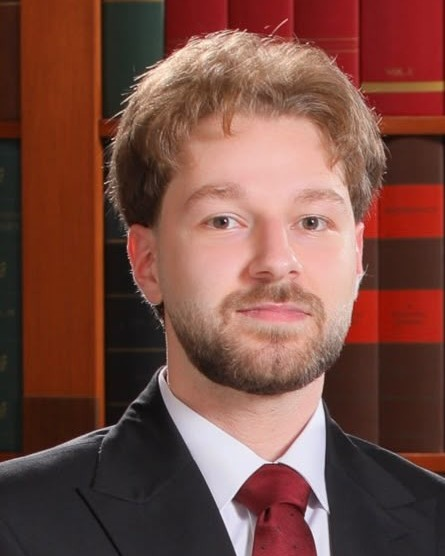
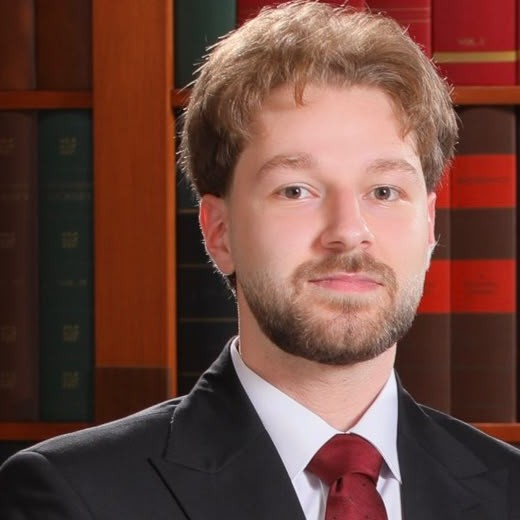
Simplify hero board, wider portrait, plain stop numbers, dot-grid
- Hero board lists the three projects only; driver screen moves into
  the bus system gallery in place of the analytics screenshot
- Wider portrait crop showing upper body
- Stop and line numbers read 1-5; plates lift instead of rotating
- Remove the GitHub section and its data helper
- Subtle dot-grid paper background in both themes

diff --git a/src/components/PortfolioPage.tsx b/src/components/PortfolioPage.tsx
@@ -4,7 +4,6 @@ import { PhishCheckerDemo } from "@/components/PhishCheckerDemo";
 import { EdgeAIDemo } from "@/components/EdgeAIDemo";
 import { ContactForm } from "@/components/ContactForm";
 import { CommandPalette } from "@/components/CommandPalette";
-import { getRepos } from "@/lib/github";
 import {
   board, contact, credentials, credentialText, CV, decisionLabel, education, EMAIL, experience, fmtDate,
   GITHUB, hero, pharmacy, phish, sdbs, sections, skills, skillsNote, usedIn, type L, type Locale,
@@ -30,8 +29,7 @@ function StationHead({ code, id, title, lede }: { code: string; id: string; titl
 const ext = { target: "_blank", rel: "noopener noreferrer" } as const;
 
 
-export async function PortfolioPage({ locale: raw, contactEnabled = false }: { locale: string; contactEnabled?: boolean }) {
-  const repos = await getRepos();
+export function PortfolioPage({ locale: raw, contactEnabled = false }: { locale: string; contactEnabled?: boolean }) {
   const locale: Locale = raw === "ar" ? "ar" : "en";
   const t = (v: L) => v[locale];
   const isAr = locale === "ar";
@@ -51,7 +49,7 @@ export async function PortfolioPage({ locale: raw, contactEnabled = false }: { l
           <section id="depot" className="station hero" aria-labelledby="hero-name">
             <div className="hero-copy">
               <div className="hero-id">
-                <Image className="hero-photo" src="/portrait.jpg" width={445} height={556} alt={isAr ? "صورة محمد الضاني" : "Portrait of Mohamed Aldani"} sizes="(max-width: 600px) 96px, 168px" loading="eager" fetchPriority="high" />
+                <Image className="hero-photo" src="/portrait.jpg" width={520} height={520} alt={isAr ? "صورة محمد الضاني" : "Portrait of Mohamed Aldani"} sizes="(max-width: 600px) 96px, 168px" loading="eager" fetchPriority="high" />
                 <h1 id="hero-name" className="hero-name">
                   {t(hero.name).split("\n").map(line => <span key={line}>{line}</span>)}
                 </h1>
@@ -70,10 +68,6 @@ export async function PortfolioPage({ locale: raw, contactEnabled = false }: { l
 
             <nav className="board" aria-labelledby="board-title">
               <div className="board-head"><span id="board-title">{t(hero.board)}</span><span>{board.length} {isAr ? "خطوط" : "lines"}</span></div>
-              <figure className="board-shot">
-                <Image src={sdbs.shots[0].src} width={sdbs.shots[0].w} height={sdbs.shots[0].h} alt={t(sdbs.shots[0].cap)} sizes="(max-width: 1000px) 92vw, 440px" loading="eager" />
-                <figcaption>{t(sdbs.shots[0].cap)}</figcaption>
-              </figure>
               <ol className="board-rows">
                 {board.map(row => (
                   <li key={row.id}>
@@ -90,11 +84,11 @@ export async function PortfolioPage({ locale: raw, contactEnabled = false }: { l
 
           {/* 01 Work */}
           <section id="projects" className="station" aria-labelledby="projects-heading">
-            <StationHead code="01" id="projects-heading" title={t(sections.work)} />
+            <StationHead code="1" id="projects-heading" title={t(sections.work)} />
 
             <article className="case" id="project-sdbs" aria-labelledby="sdbs-title">
               <div className="case-intro">
-                <h3 id="sdbs-title" className="project-title"><span className="line-no" dir="ltr">01</span>{t(sdbs.title)}</h3>
+                <h3 id="sdbs-title" className="project-title"><span className="line-no" dir="ltr">1</span>{t(sdbs.title)}</h3>
                 <p className="project-summary">{t(sdbs.summary)}</p>
                 <dl className="meta-list">
                   {sdbs.meta.map(m => <div key={m.k.en}><dt>{t(m.k)}</dt><dd>{t(m.v)}</dd></div>)}
@@ -103,7 +97,7 @@ export async function PortfolioPage({ locale: raw, contactEnabled = false }: { l
               </div>
 
               <div className="gallery" role="list" tabIndex={0} aria-label={isAr ? "لقطات من التطبيق" : "App screenshots"}>
-                {sdbs.shots.filter(s => !s.wide).map(s => (
+                {sdbs.shots.map(s => (
                   <figure key={s.src} role="listitem" className={s.wide ? "shot shot-wide" : "shot"}>
                     <Image src={s.src} width={s.w} height={s.h} alt={t(s.cap)} sizes={s.wide ? "(max-width: 768px) 88vw, 560px" : "(max-width: 768px) 46vw, 180px"} />
                     <figcaption>{t(s.cap)}</figcaption>
@@ -136,7 +130,7 @@ export async function PortfolioPage({ locale: raw, contactEnabled = false }: { l
 
             <article className="case case-split" id="project-phish" aria-labelledby="phish-title">
               <div className="case-intro">
-                <h3 id="phish-title" className="project-title"><span className="line-no" dir="ltr">02</span>{t(phish.title)}</h3>
+                <h3 id="phish-title" className="project-title"><span className="line-no" dir="ltr">2</span>{t(phish.title)}</h3>
                 <p className="project-summary">{t(phish.summary)}</p>
                 <p className="stack" dir="ltr">{phish.stack}</p>
                 <figure className="shot shot-terminal">
@@ -152,7 +146,7 @@ export async function PortfolioPage({ locale: raw, contactEnabled = false }: { l
             </article>
 
             <article className="case case-compact" id="project-pharmacy" aria-labelledby="pharmacy-title">
-              <h3 id="pharmacy-title" className="project-title"><span className="line-no" dir="ltr">03</span>{t(pharmacy.title)}</h3>
+              <h3 id="pharmacy-title" className="project-title"><span className="line-no" dir="ltr">3</span>{t(pharmacy.title)}</h3>
               <div>
                 <p className="project-summary">{t(pharmacy.summary)}</p>
                 <p className="stack" dir="ltr">{pharmacy.stack}</p>
@@ -166,7 +160,7 @@ export async function PortfolioPage({ locale: raw, contactEnabled = false }: { l
 
           {/* 02 Experience */}
           <section id="experience" className="station" aria-labelledby="experience-heading">
-            <StationHead code="02" id="experience-heading" title={t(sections.experience)} />
+            <StationHead code="2" id="experience-heading" title={t(sections.experience)} />
             <ol className="timetable">
               {experience.map(job => (
                 <li key={job.role.en}>
@@ -184,7 +178,7 @@ export async function PortfolioPage({ locale: raw, contactEnabled = false }: { l
 
           {/* 03 Skills */}
           <section id="skills" className="station" aria-labelledby="skills-heading">
-            <StationHead code="03" id="skills-heading" title={t(sections.skills)} />
+            <StationHead code="3" id="skills-heading" title={t(sections.skills)} />
             <dl className="skill-table">
               {skills.map(s => (
                 <div key={s.label.en}>
@@ -199,7 +193,7 @@ export async function PortfolioPage({ locale: raw, contactEnabled = false }: { l
 
           {/* 04 Education */}
           <section id="about" className="station" aria-labelledby="about-heading">
-            <StationHead code="04" id="about-heading" title={t(sections.education)} />
+            <StationHead code="4" id="about-heading" title={t(sections.education)} />
             <div className="edu">
               <div>
                 <h3 className="edu-degree">{t(education.degree)}</h3>
@@ -222,7 +216,7 @@ export async function PortfolioPage({ locale: raw, contactEnabled = false }: { l
 
           {/* 05 Certificates */}
           <section id="certificates" className="station" aria-labelledby="certificates-heading">
-            <StationHead code="05" id="certificates-heading" title={t(sections.certificates)} lede={t(credentialText.lede)} />
+            <StationHead code="5" id="certificates-heading" title={t(sections.certificates)} lede={t(credentialText.lede)} />
             <ul className="cred-list">
               {credentials.map(c => (
                 <li key={c.id} className="cred">
@@ -250,23 +244,6 @@ export async function PortfolioPage({ locale: raw, contactEnabled = false }: { l
             </ul>
           </section>
 
-          {/* 06 GitHub */}
-          {repos.length > 0 && (
-            <section id="github" className="station" aria-labelledby="github-heading">
-              <StationHead code="06" id="github-heading" title={t(sections.github)} lede={t(sections.githubLede)} />
-              <ol className="departures">
-                {repos.map(r => (
-                  <li key={r.name}>
-                    <time className="tt-time" dateTime={r.pushedAt}>{fmtDate(r.pushedAt, locale)}</time>
-                    <a className="dep-name" href={r.url} {...ext} dir="ltr">{r.name}<Arrow external /><span className="sr-only">{newTab}</span></a>
-                    <p className="dep-desc">{r.description ? t(r.description) : ""}</p>
-                    <span className="stack dep-lang" dir="ltr">{r.language ?? ""}</span>
-                  </li>
-                ))}
-              </ol>
-              <a className="text-link" href={GITHUB} {...ext}>{isAr ? "كل المستودعات على GitHub" : "All repositories on GitHub"}<span className="sr-only">{newTab}</span></a>
-            </section>
-          )}
 
           {/* Terminus */}
           <section id="contact" className="station terminus" aria-labelledby="contact-heading">

diff --git a/src/app/globals.css b/src/app/globals.css
@@ -83,6 +83,10 @@ body {
   overflow-x: clip;
   overflow-wrap: break-word;
 }
+body {
+  background-image: radial-gradient(color-mix(in srgb, var(--ink) 9%, transparent) 1px, transparent 1.2px);
+  background-size: 22px 22px; background-attachment: fixed;
+}
 html[lang="ar"] body { font-family: var(--font-arabic); line-height: 1.85; }
 ::selection { background: var(--line); color: var(--line-ink); }
 img { max-inline-size: 100%; block-size: auto; display: block; }
@@ -278,9 +282,6 @@ html[data-theme="dark"] .board { border: 1px solid var(--rule); }
   font: 600 var(--fs-xs)/1.4 var(--font-mono); color: var(--board-2); border-block-end: 1px solid var(--board-rule);
 }
 html[lang="ar"] .board-head { font-family: var(--font-arabic); }
-.board-shot { padding: 16px 16px 4px; }
-.board-shot img { inline-size: 100%; border-radius: 6px; }
-.board-shot figcaption { color: var(--board-2); margin-block: 10px 6px; }
 .board-rows a {
   display: grid; grid-template-columns: 2rem minmax(0, 1fr) auto; align-items: center; gap: 4px 14px;
   min-block-size: 64px; padding: 12px 20px; text-decoration: none; border-block-start: 1px solid var(--board-rule);
@@ -319,7 +320,7 @@ html[dir="rtl"] .board-rows a:hover .board-title { transform: translateX(-4px); 
 .meta-list div { display: grid; grid-template-columns: 6.5rem minmax(0, 1fr); gap: 12px; padding-block: 10px; border-block-start: 1px solid var(--rule); }
 .meta-list dd { font-size: var(--fs-sm); }
 
-.gallery { display: grid; grid-template-columns: repeat(4, minmax(0, 1fr)); gap: 28px 16px; align-items: start; }
+.gallery { display: grid; grid-template-columns: repeat(3, minmax(0, 1fr)); gap: 28px 16px; align-items: start; }
 .shot img { inline-size: 100%; border-radius: var(--radius); border: 1px solid var(--rule); background: var(--raised); }
 .shot-wide { grid-column: 1 / -1; }
 .shot-wide img { box-shadow: var(--shadow); }
@@ -341,7 +342,7 @@ figcaption { margin-block-start: 10px; font-size: var(--fs-xs); line-height: 1.5
   counter-increment: rule; display: grid; grid-template-columns: 2rem minmax(0, 1fr) auto; align-items: center; gap: 12px;
   padding-block: 14px; border-block-start: 1px solid var(--rule); font-size: var(--fs-sm);
 }
-.rules li::before { content: counter(rule, decimal-leading-zero); font: 600 var(--fs-xs)/1 var(--font-mono); color: var(--ink-2); }
+.rules li::before { content: counter(rule); font: 600 var(--fs-xs)/1 var(--font-mono); color: var(--ink-2); }
 .signal {
   display: inline-flex; align-items: center; white-space: nowrap;
   padding: 3px 10px; border: 1.5px solid currentColor; border-radius: 999px;
@@ -552,18 +553,6 @@ html[dir="rtl"] .cmd-input-wrap { padding: 8px 16px 8px 8px; }
 .tok-kind { font-size: 0.6875rem; color: var(--ink-2); padding-inline: 3px; }
 @keyframes tok-in { from { opacity: 0; transform: translateY(6px); } to { opacity: 1; transform: none; } }
 
-/* GitHub departures */
-.departures { border-block-end: 1px solid var(--rule); margin-block-end: 20px; }
-.departures li { display: grid; grid-template-columns: minmax(0, 9rem) minmax(0, 16rem) minmax(0, 1fr) auto; gap: 6px 28px; align-items: baseline; padding-block: 16px; border-block-start: 1px solid var(--rule); }
-.dep-name { display: inline-flex; align-items: center; gap: 6px; font-weight: 700; text-decoration: none; overflow-wrap: anywhere; }
-.dep-name:hover { color: var(--line); }
-.dep-desc { font-size: var(--fs-sm); color: var(--ink-2); }
-.dep-lang { margin: 0; text-align: end; }
-@media (max-width: 1100px) {
-  .departures li { grid-template-columns: minmax(0, 1fr) auto; }
-  .dep-desc { grid-column: 1 / -1; }
-  .departures .tt-time { grid-column: 1 / -1; }
-}
 
 /* Hero entrance, once */
 @keyframes rise { from { opacity: 0; transform: translateY(0.35em); } to { opacity: 1; transform: none; } }
@@ -574,7 +563,7 @@ html[dir="rtl"] .cmd-input-wrap { padding: 8px 16px 8px 8px; }
 .hero-lede { animation: rise 800ms 280ms var(--ease) both; }
 .hero-actions { animation: rise 800ms 360ms var(--ease) both; }
 .hero-facts { animation: rise 800ms 440ms var(--ease) both; }
-.hero .board { animation: slide-in 1000ms 150ms var(--ease) both; }
+.hero .board { animation: slide-in 1000ms 150ms var(--ease) both; align-self: center; }
 .hero-photo { animation: slide-in 900ms var(--ease) both; }
 
 /* Theme toggle: icon turns in, page reveals as a growing circle */
@@ -587,9 +576,9 @@ html[dir="rtl"] .cmd-input-wrap { padding: 8px 16px 8px 8px; }
 .shot img { transition: transform 400ms var(--ease), box-shadow 400ms var(--ease); }
 .shot:hover img { transform: translateY(-6px); box-shadow: var(--shadow); }
 .cred-cert:hover { transform: translateY(-3px) rotate(-1.5deg) scale(1.04); }
-.skill-table > div, .timetable > li, .departures li, .cred { transition: background-color 240ms var(--ease); }
-.skill-table > div:hover, .timetable > li:hover, .departures li:hover, .cred:hover { background: linear-gradient(90deg, color-mix(in srgb, var(--line) 8%, transparent), transparent 70%); }
-html[dir="rtl"] :is(.skill-table > div, .timetable > li, .departures li, .cred):hover { background: linear-gradient(270deg, color-mix(in srgb, var(--line) 8%, transparent), transparent 70%); }
+.skill-table > div, .timetable > li, .cred { transition: background-color 240ms var(--ease); }
+.skill-table > div:hover, .timetable > li:hover, .cred:hover { background: linear-gradient(90deg, color-mix(in srgb, var(--line) 8%, transparent), transparent 70%); }
+html[dir="rtl"] :is(.skill-table > div, .timetable > li, .cred):hover { background: linear-gradient(270deg, color-mix(in srgb, var(--line) 8%, transparent), transparent 70%); }
 .skill-table dt, .tt-role { transition: color 200ms, transform 260ms var(--ease); }
 .skill-table > div:hover dt, .timetable > li:hover .tt-role { color: var(--line); transform: translateX(4px); }
 html[dir="rtl"] :is(.skill-table > div:hover dt, .timetable > li:hover .tt-role) { transform: translateX(-4px); }
@@ -598,7 +587,7 @@ html[dir="rtl"] :is(.skill-table > div:hover dt, .timetable > li:hover .tt-role)
 .contact-links a .icon { transition: transform 260ms var(--ease); }
 .contact-links a:hover .icon { transform: translate(3px, -3px); }
 .stop-plate { transition: transform 400ms var(--ease); }
-.station-head:hover .stop-plate { transform: rotate(-90deg); }
+.station-head:hover .stop-plate { transform: translateY(-3px) scale(1.06); }
 .pop { animation: pop 380ms var(--ease); }
 @keyframes pop { 0% { transform: scale(0.6); opacity: 0; } 60% { transform: scale(1.12); } 100% { transform: none; opacity: 1; } }
 .risk-label { animation: rise 500ms var(--ease) both; }
@@ -606,7 +595,7 @@ html[dir="rtl"] :is(.skill-table > div:hover dt, .timetable > li:hover .tt-role)
 /* Portrait beside the name */
 .hero-id { display: flex; align-items: center; gap: clamp(20px, 3vw, 36px); }
 .hero-photo {
-  flex: none; inline-size: clamp(96px, 11vw, 168px); block-size: auto; aspect-ratio: 1; border-radius: 50%; object-fit: cover; object-position: 50% 22%;
+  flex: none; inline-size: clamp(96px, 11vw, 168px); block-size: auto; aspect-ratio: 1; border-radius: 50%; object-fit: cover;
   box-shadow: 0 0 0 5px var(--bg), 0 0 0 9px var(--line), var(--shadow);
   transition: transform 500ms var(--ease), box-shadow 300ms var(--ease);
 }

diff --git a/src/content/portfolio.ts b/src/content/portfolio.ts
@@ -28,9 +28,9 @@ export const hero = {
 };
 
 export const board = [
-  { id: "project-sdbs", n: "01", title: { en: "Smart Dynamic Bus System", ar: "نظام الحافلات الذكي" }, stack: "Flutter · Firebase · Python", status: { en: "Case study + simulation", ar: "دراسة حالة ومحاكاة" } },
-  { id: "project-phish", n: "02", title: { en: "Phish Checker", ar: "فاحص روابط التصيّد" }, stack: "Python · Docker", status: { en: "Try it in the browser", ar: "جرّبه في المتصفح" } },
-  { id: "project-pharmacy", n: "03", title: { en: "Pharmacy Management System", ar: "نظام إدارة الصيدلية" }, stack: "C++ · OOP", status: { en: "Academic project", ar: "مشروع جامعي" } },
+  { id: "project-sdbs", n: "1", title: { en: "Smart Dynamic Bus System", ar: "نظام الحافلات الذكي" }, stack: "Flutter · Firebase · Python", status: { en: "Case study + simulation", ar: "دراسة حالة ومحاكاة" } },
+  { id: "project-phish", n: "2", title: { en: "Phish Checker", ar: "فاحص روابط التصيّد" }, stack: "Python · Docker", status: { en: "Try it in the browser", ar: "جرّبه في المتصفح" } },
+  { id: "project-pharmacy", n: "3", title: { en: "Pharmacy Management System", ar: "نظام إدارة الصيدلية" }, stack: "C++ · OOP", status: { en: "Academic project", ar: "مشروع جامعي" } },
 ];
 
 export const sections = {
@@ -38,10 +38,7 @@ export const sections = {
   experience: { en: "Experience", ar: "الخبرة العملية" },
   skills: { en: "Skills", ar: "المهارات" },
   education: { en: "Education", ar: "التعليم" },
-  certificates: { en: "Certificates", ar: "الشهادات" },
-  github: { en: "Recent departures on GitHub", ar: "آخر التحديثات على GitHub" },
-  githubLede: { en: "Live from the GitHub API: my public repositories, most recently updated first.", ar: "مباشرة من واجهة GitHub: مستودعاتي العامة، الأحدث تحديثاً أولاً." },
-  contact: { en: "Contact", ar: "تواصل" },
+  certificates: { en: "Certificates", ar: "الشهادات" },  contact: { en: "Contact", ar: "تواصل" },
 };
 
 export const sdbs = {
@@ -61,7 +58,6 @@ export const sdbs = {
     { src: "/work/sdbs/passenger-home.png", w: 356, h: 791, cap: { en: "Passenger home with live occupancy", ar: "الصفحة الرئيسية للراكب مع الإشغال المباشر" } },
     { src: "/work/sdbs/qr-checkin.png", w: 359, h: 791, cap: { en: "QR check-in at a stop", ar: "تسجيل الوصول إلى المحطة برمز QR" } },
     { src: "/work/sdbs/fleet-dashboard.png", w: 335, h: 751, cap: { en: "Admin fleet view", ar: "لوحة الأسطول للمشرف" } },
-    { src: "/work/sdbs/analytics.png", w: 342, h: 760, cap: { en: "Decision analytics", ar: "تحليلات القرارات" } },
   ],
   flowTitle: { en: "How the pieces connect", ar: "كيف تترابط أجزاء النظام" },
   flow: [

diff --git a/src/components/CommandPalette.tsx b/src/components/CommandPalette.tsx
@@ -59,14 +59,13 @@ export function CommandPalette({ locale }: CommandPaletteProps) {
 
   const isAr = locale === "ar";
   const items: CmdItem[] = [
-    { id: "goto-depot", icon: "00", label: t("actions.depot"), action: () => navigate("depot") },
-    { id: "goto-projects", icon: "01", label: t("actions.projects"), action: () => navigate("projects") },
-    { id: "goto-experience", icon: "02", label: t("actions.experience"), action: () => navigate("experience") },
-    { id: "goto-skills", icon: "03", label: t("actions.skills"), action: () => navigate("skills") },
-    { id: "goto-about", icon: "04", label: t("actions.about"), action: () => navigate("about") },
-    { id: "goto-certificates", icon: "05", label: t("actions.certificates"), action: () => navigate("certificates") },
-    { id: "goto-github", icon: "06", label: t("actions.github"), action: () => navigate("github") },
-    { id: "goto-contact", icon: "07", label: t("actions.contact"), action: () => navigate("contact") },
+    { id: "goto-depot", icon: "↑", label: t("actions.depot"), action: () => navigate("depot") },
+    { id: "goto-projects", icon: "1", label: t("actions.projects"), action: () => navigate("projects") },
+    { id: "goto-experience", icon: "2", label: t("actions.experience"), action: () => navigate("experience") },
+    { id: "goto-skills", icon: "3", label: t("actions.skills"), action: () => navigate("skills") },
+    { id: "goto-about", icon: "4", label: t("actions.about"), action: () => navigate("about") },
+    { id: "goto-certificates", icon: "5", label: t("actions.certificates"), action: () => navigate("certificates") },
+    { id: "goto-contact", icon: "@", label: t("actions.contact"), action: () => navigate("contact") },
     locale === "en"
       ? { id: "switch-ar", icon: "AR", label: t("actions.switchAr"), action: () => switchLocale("ar") }
       : { id: "switch-en", icon: "EN", label: t("actions.switchEn"), action: () => switchLocale("en") },

diff --git a/src/components/Nav.tsx b/src/components/Nav.tsx
@@ -71,7 +71,7 @@ export function Nav({ locale }: { locale: string }) {
   };
   return (
     <nav ref={navRef} className="site-nav" aria-label={isAr ? "التنقل الرئيسي" : "Main navigation"}>
-      <a className="nav-logo" href="#depot" aria-label={isAr ? "محمد الضاني، إلى الأعلى" : "Mohamed Aldani, back to top"}><Image className="nav-avatar" src="/portrait.jpg" width={445} height={556} alt="" sizes="36px" /><span className="nav-name">{isAr ? "محمد الضاني" : "Mohamed Aldani"}</span></a>
+      <a className="nav-logo" href="#depot" aria-label={isAr ? "محمد الضاني، إلى الأعلى" : "Mohamed Aldani, back to top"}><Image className="nav-avatar" src="/portrait.jpg" width={520} height={520} alt="" sizes="36px" /><span className="nav-name">{isAr ? "محمد الضاني" : "Mohamed Aldani"}</span></a>
       <button ref={menuRef} className="nav-menu nav-control" aria-expanded={menuOpen} aria-controls="station-links" onClick={() => setMenuOpen(!menuOpen)}>
         {menuOpen ? (isAr ? "إغلاق" : "Close") : (isAr ? "القائمة" : "Menu")}
       </button>

diff --git a/UPGRADE_NOTES.md b/UPGRADE_NOTES.md
@@ -22,7 +22,7 @@
 - Portrait in the nav and beside the name (`public/portrait.jpg`, cropped from the owner's photo).
 - Split-flap board text, Kuwait clock, scroll-filled route line, URL anatomy scanner, detection scan sweep.
 - Third pass: the hero simulation was removed at the owner's request; the board now shows the portrait as a transit pass. Added circular theme-switch reveal, hover animations, hero entrance and animated background map.
-- New "Recent departures on GitHub" section from the GitHub API (revalidated every 6 hours; hidden if the API fails).
+- GitHub section was added and later removed at the owner's request.
 - IBM certificate image published unedited at the owner's request (it shows the student ID).
 - LinkedIn updated to linkedin.com/in/mohamed-aldani-5b18992a1 on the site, CV and structured data.
 - Tests: 36 unit tests, 84 Playwright checks passing.
